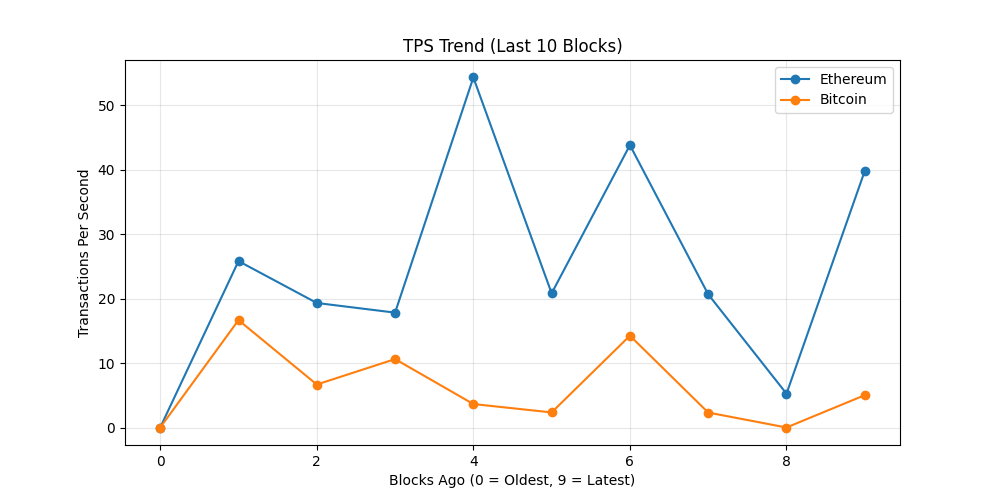
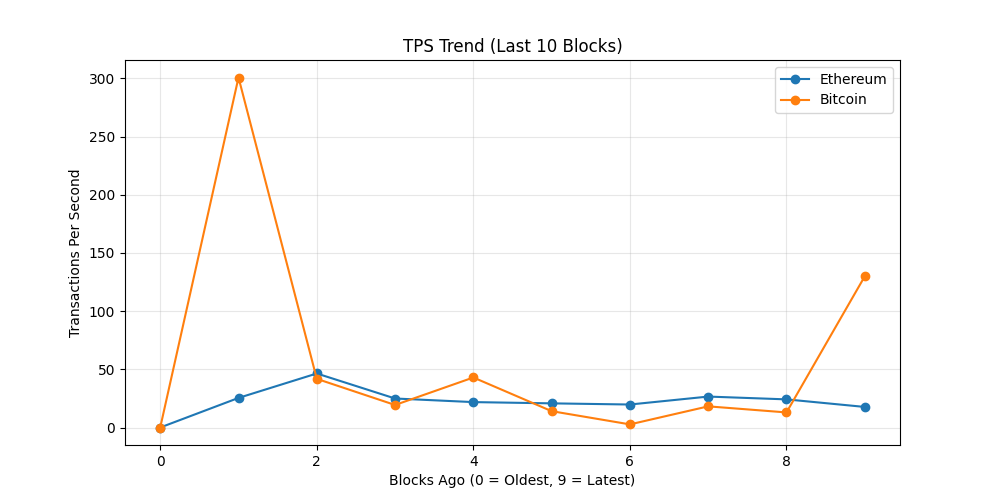
chore: update on-chain dashboard

diff --git a/README.md b/README.md
@@ -19,7 +19,7 @@ The README itself acts as the dashboard and is regenerated automatically on a 6 
 demonstrating a production-style, infrastructure-focused observability workflow rather
 than a traditional UI-driven approach.
 
-_Last updated: 2026-02-04 03:08 UTC_
+_Last updated: 2026-02-04 07:10 UTC_
 
 ## API Usage (GetBlock.io)
 - Calls used: **24**
@@ -27,8 +27,8 @@ _Last updated: 2026-02-04 03:08 UTC_
 ## Network Metrics
 | Chain | Block Height | TX Count | TPS (10 blk avg) | Block Util | Avg Fee |
 |------|-------------|----------|------------------|------------|---------|
-| Ethereum | 24380701 | 478 | 39.83 | 72.83% | 0.1 Gwei |
-| Bitcoin | 934926 | 2663 | 5.02 | 99.8% | N/A |
+| Ethereum | 24381903 | 212 | 17.67 | 33.68% | 0.1 Gwei |
+| Bitcoin | 934952 | 3638 | 129.93 | 99.8% | N/A |
 
 ## Visuals
 ### Transactions Trend
@@ -43,11 +43,7 @@ _Last updated: 2026-02-04 03:08 UTC_
 ## Whale Alerts (latest block)
 - Transaction hashes are truncated for readability.
 - Full hashes are available in `dashboards/metrics.json`
-- Bitcoin | 107.55 BTC | `c90610270ef6…`
-- Bitcoin | 584.44 BTC | `cb9394f1ed53…`
-- Bitcoin | 180.0 BTC | `021378f19684…`
-- Bitcoin | 150.0 BTC | `f9e15e2f1cb8…`
-- Bitcoin | 176.46 BTC | `d83fb767234f…`
+No whale-sized transfers detected in latest blocks.
 
 ## Run locally
 
